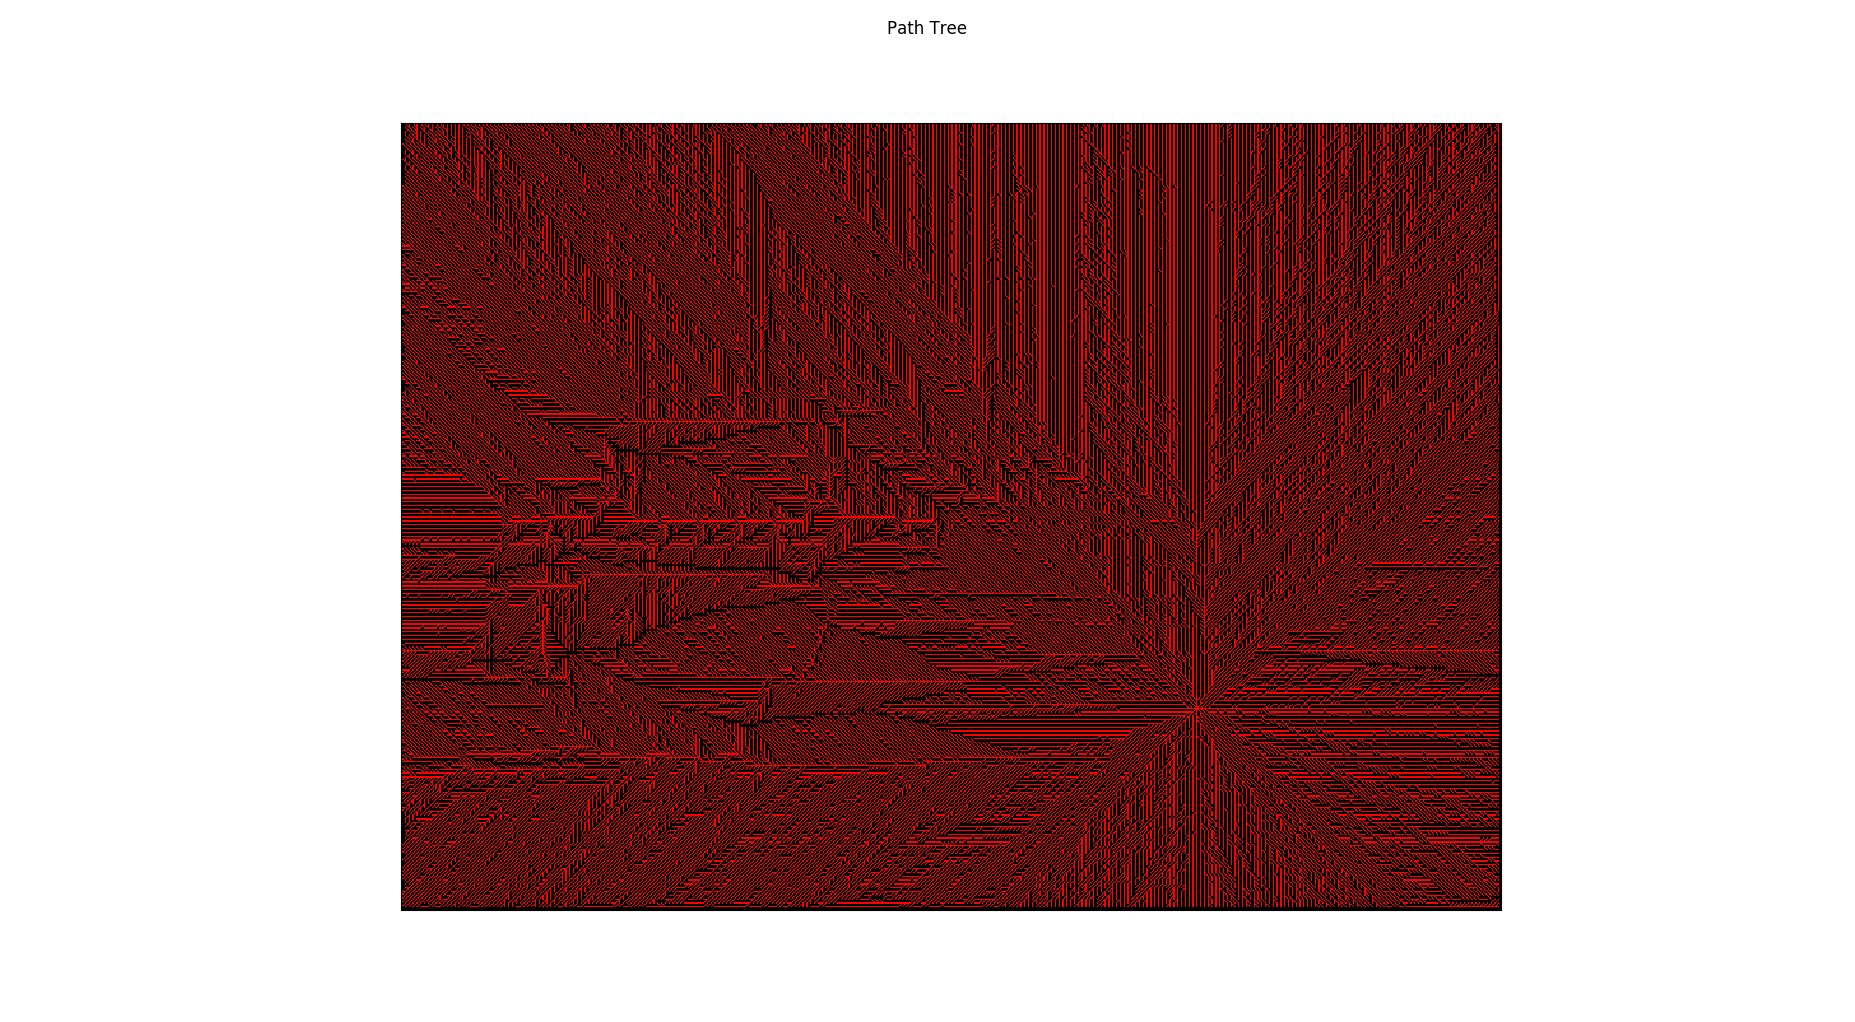
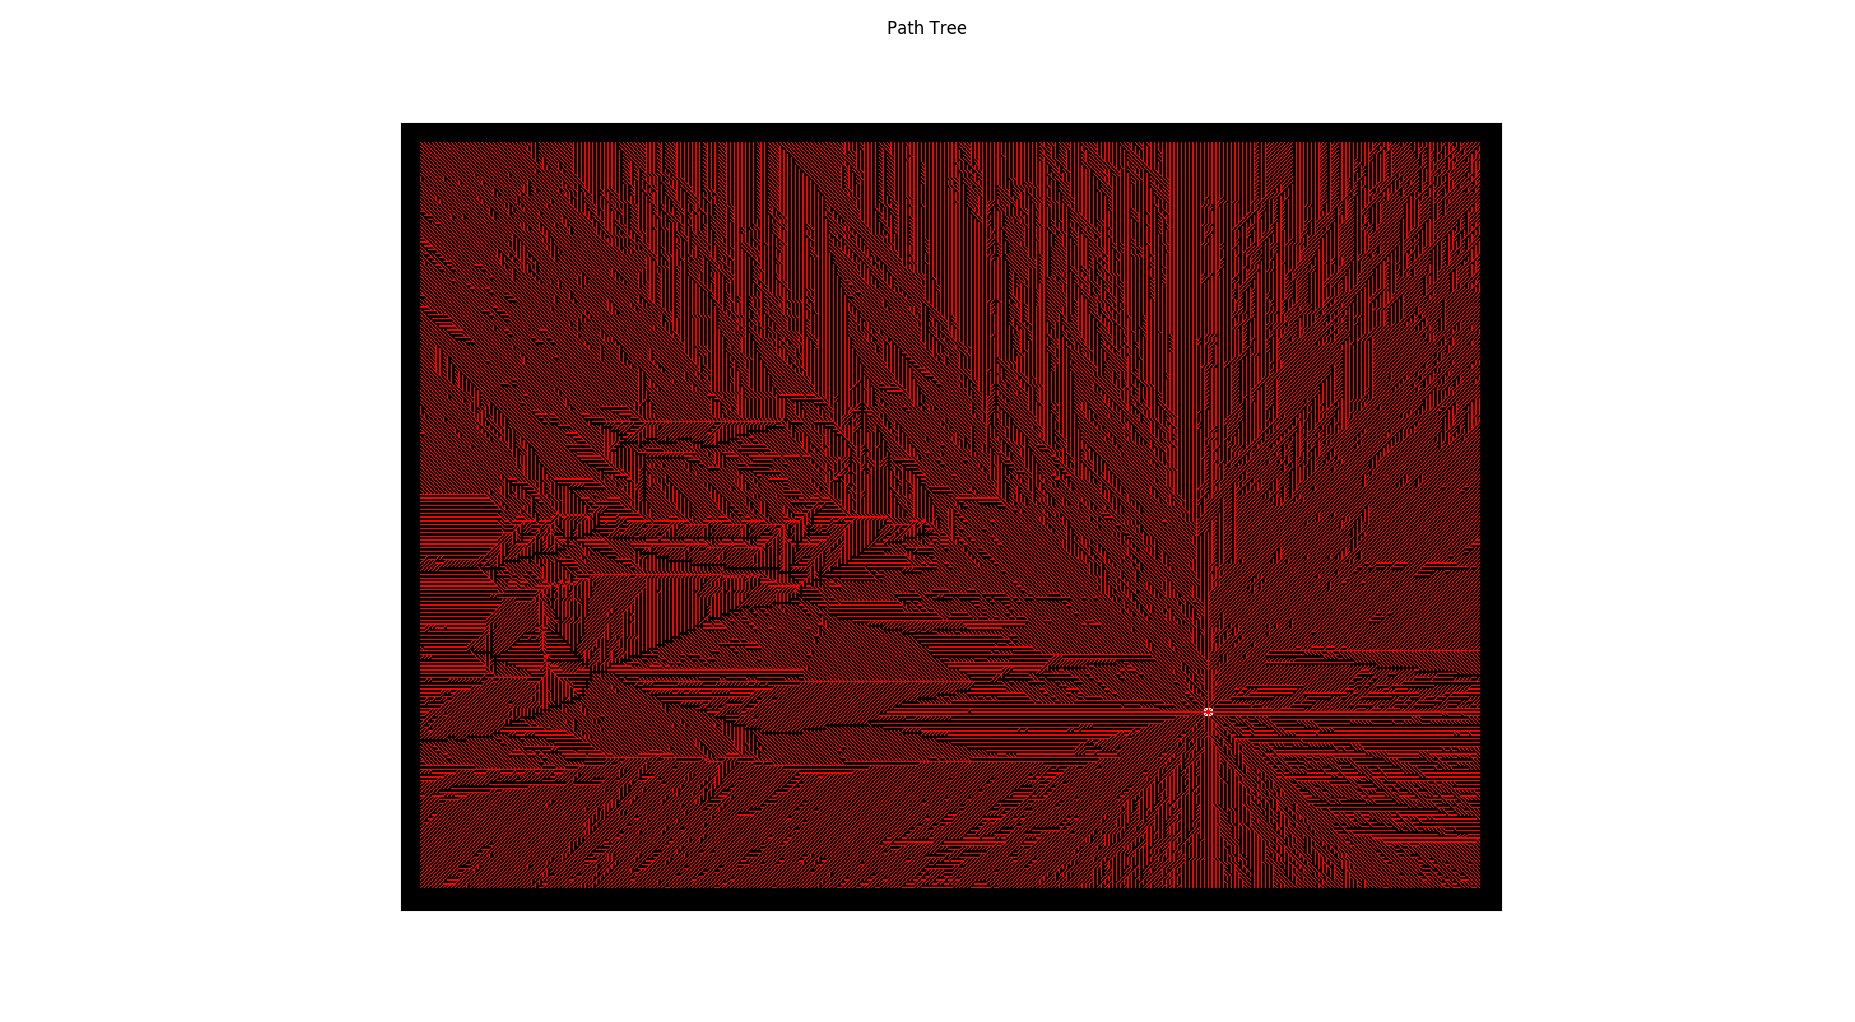
1. update the path tree image in picture folder 2. reduce point from border for path tree graph generation

Changed region(s): [[0.2151, 0.1213, 0.8296, 0.91], [0.7989, 0.4853, 0.8296, 0.546], [0.7989, 0.6067, 0.8296, 0.637]]

diff --git a/image-scissor/proj1_imageviewer.py b/image-scissor/proj1_imageviewer.py
@@ -77,7 +77,6 @@ class ImageViewer(QScrollArea):
 		if self.seedNum>0:
 			print('Creating Path Tree, please wait......')
 			img = self.getPathTreeGraph()
-			print('Path Tree Done')
 		return
 
 	def resize(self, factor):
@@ -219,14 +218,26 @@ class ImageViewer(QScrollArea):
 		m = 3
 		graph = np.zeros((self.qImageHieght*m,self.qImageWidth*m,3),np.uint8)
 		cv2.circle(graph,(int(self.cur_seed[0]*m),int(self.cur_seed[1]*m)), 4, (255,255,255), -1)
-		for i in range(self.qImageHieght):
-			for j in range(self.qImageWidth):
+		print(self.cur_seed)
+		'''start_h = self.cur_seed[0] -int(self.cur_seed[0]*0.2)
+		end_h = int((self.qImageHieght - self.cur_seed[0])*0.2)+self.cur_seed[0]
+		start_w = self.cur_seed[1] - int(self.cur_seed[1]*0.2)
+		end_w = int((self.qImageWidth - self.cur_seed[1])*0.2)+self.cur_seed[1]
+		print(start_h,end_h,start_w,end_w)
+
+		for i in range(start_h,end_h):
+			for j in range(start_w,end_w):
+		'''
+
+		for i in range(5,self.qImageHieght-5):
+			for j in range(5,self.qImageWidth-5):		
 				mp = np.array(self.widget().get_min_path_coordinates(i,j))
 				mp *= m
 				for k in range(int(mp.size/2)-1):
 					if (graph[mp[k+1,1],mp[k+1,0]].all() == 0):
 						cv2.line(graph,(mp[k,0],mp[k,1]),(mp[k+1,0],mp[k+1,1]),(255,0,0),1)
 
+		print('Path Tree Done')
 		plt.imshow(graph)
 		plt.suptitle('Path Tree')
 		plt.xticks([]), plt.yticks([])  # to hide tick values on X and Y axis
